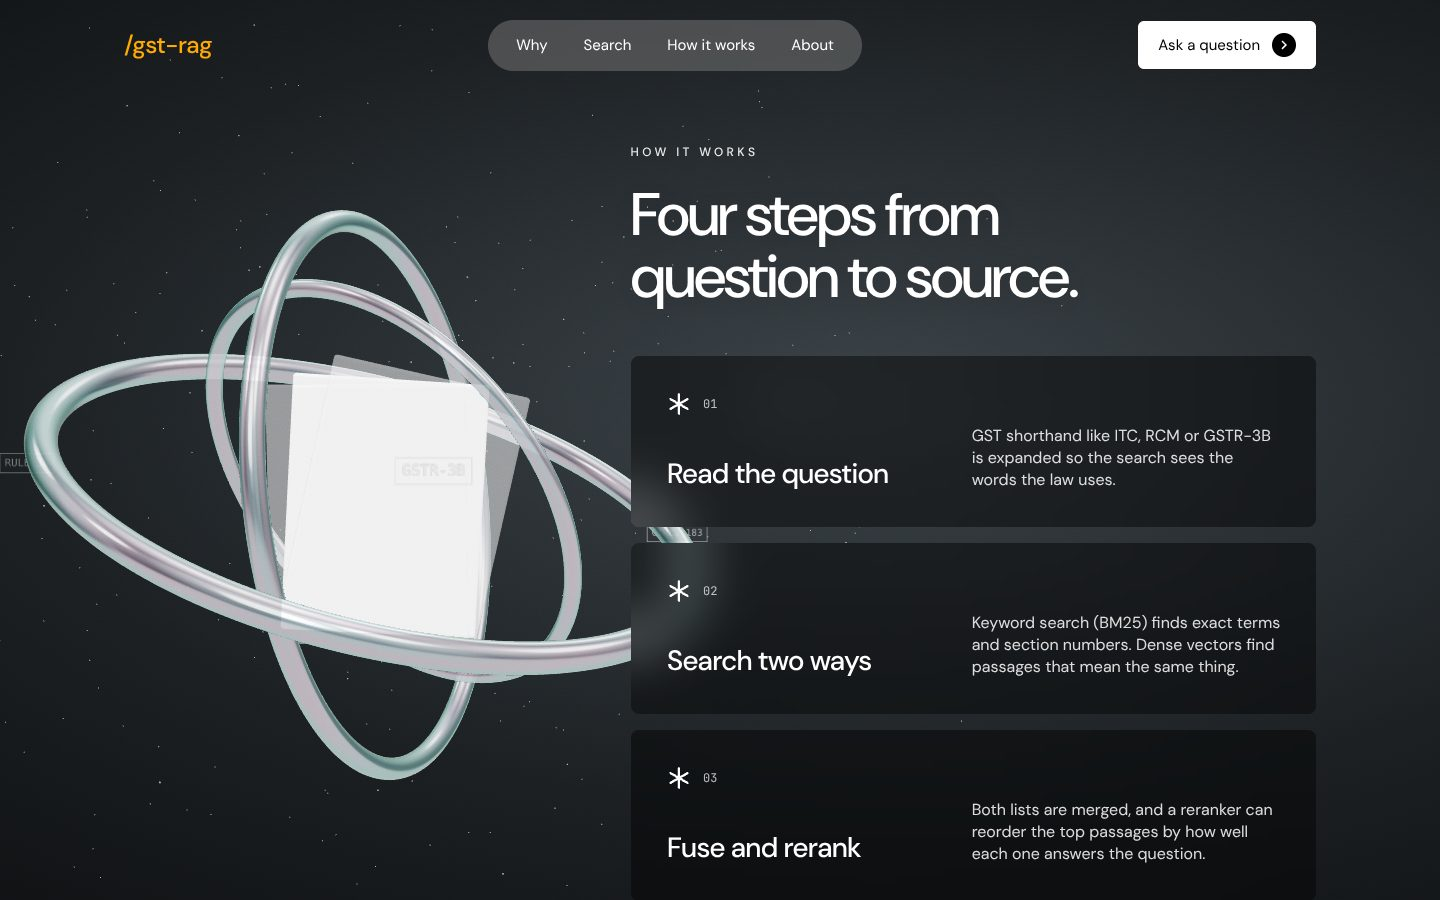
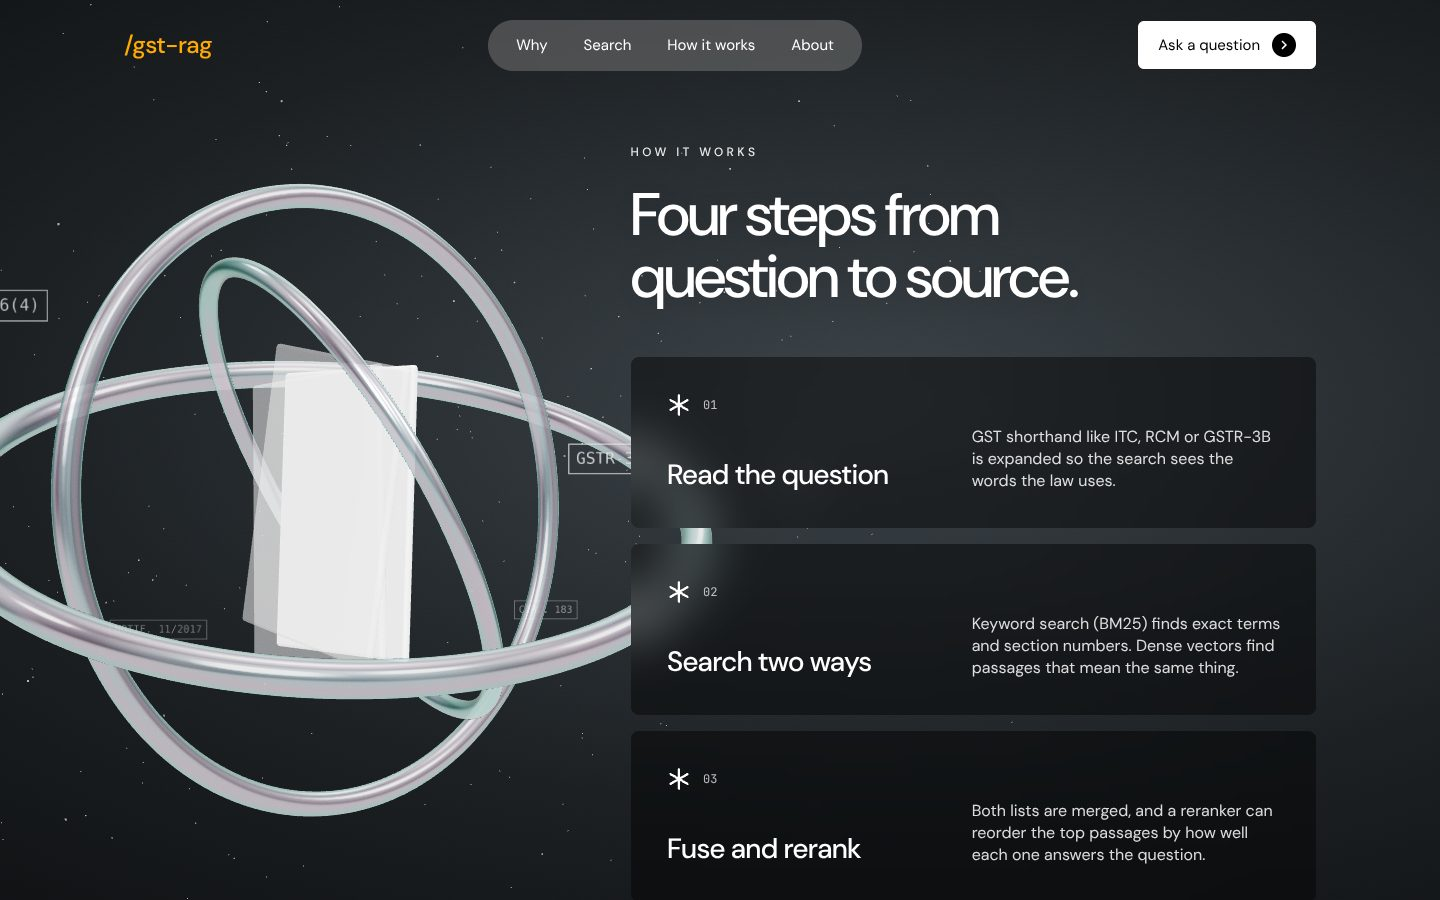
Frontend: scroll-scrubbed camera that flies into the 3D object
- Camera keyframes pinned to sections: far out with the object to the
  right in the hero, closer behind the new statement section, right
  inside the rings behind the glass cards, then pulled back out to the
  left for How it works. Scroll blends between them.
- New statement section over the scene whose words light up one by one
  as you scroll.
- Why-it's-different cards are now frosted glass over the zoomed scene.
- Guard --scroll against a zero viewport height.

Claude-Session: https://claude.ai/code/session_01BcUV2UwaDs38gkFiSr981i

diff --git a/frontend/src/three/scene.ts b/frontend/src/three/scene.ts
@@ -11,6 +11,13 @@ import * as THREE from "three";
 import { RoomEnvironment } from "three/examples/jsm/environments/RoomEnvironment.js";
 import { RoundedBoxGeometry } from "three/examples/jsm/geometries/RoundedBoxGeometry.js";
 
+export interface Pose {
+  x: number;
+  y: number;
+  z: number;
+  ry: number;
+}
+
 export interface SceneHandle {
   dispose: () => void;
 }
@@ -20,8 +27,8 @@ interface Options {
   reducedMotion: boolean;
   /** Elements whose visibility keeps the render loop running. */
   windows: () => HTMLElement[];
-  /** Where the object should sit: 0 = hero (right), 1 = pipeline (left). */
-  anchor: () => number;
+  /** Scroll-driven pose: object offset (x, y), camera distance (z) and turn (ry). */
+  pose: (mobile: boolean) => Pose;
 }
 
 const TAGS = ["§ 16(4)", "RULE 36", "NOTIF. 11/2017", "CIRC. 183", "SEC. 9", "GSTR-3B"];
@@ -72,7 +79,7 @@ function tagSprite(label: string): THREE.Sprite {
   return sprite;
 }
 
-export function createScene({ canvas, reducedMotion, windows, anchor }: Options): SceneHandle {
+export function createScene({ canvas, reducedMotion, windows, pose }: Options): SceneHandle {
   const renderer = new THREE.WebGLRenderer({ canvas, antialias: true, alpha: true, powerPreference: "high-performance" });
   renderer.setPixelRatio(Math.min(window.devicePixelRatio, 1.75));
   renderer.toneMapping = THREE.ACESFilmicToneMapping;
@@ -225,29 +232,25 @@ export function createScene({ canvas, reducedMotion, windows, anchor }: Options)
   const clock = new THREE.Clock();
   let raf = 0;
   let t = 0;
-  const cur = { x: 0, y: 0, ry: 0, s: 1 };
+  const cur = { ...pose(window.innerWidth < 768) };
 
   function frame() {
     raf = 0;
     const dt = Math.min(clock.getDelta(), 0.05);
     if (!reducedMotion) t += dt;
 
-    const a = anchor(); // 0 hero .. 1 pipeline
-    const span = mobile ? 0.7 : 2.35;
-    const target = {
-      x: THREE.MathUtils.lerp(span, -span, a),
-      y: mobile ? THREE.MathUtils.lerp(-1.6, -1.0, a) : THREE.MathUtils.lerp(-0.15, -0.3, a),
-      ry: a * Math.PI * 1.15,
-      s: mobile ? 0.78 : 1,
-    };
-    const k = reducedMotion ? 1 : 1 - Math.pow(0.0015, dt);
+    const target = pose(mobile);
+    // Ease toward the scroll pose so a flick of the wheel glides, not jumps.
+    const k = reducedMotion ? 1 : 1 - Math.pow(0.004, dt);
     cur.x += (target.x - cur.x) * k;
     cur.y += (target.y - cur.y) * k;
+    cur.z += (target.z - cur.z) * k;
     cur.ry += (target.ry - cur.ry) * k;
-    cur.s += (target.s - cur.s) * k;
     rig.position.set(cur.x, cur.y, 0);
     rig.rotation.y = cur.ry;
-    rig.scale.setScalar(cur.s);
+    camera.position.z = cur.z;
+    // Dust thins out as the camera flies in, so close-ups stay clean.
+    (dust.material as THREE.PointsMaterial).opacity = THREE.MathUtils.clamp((cur.z - 2.5) / 6, 0.25, 0.75);
 
     const lk = reducedMotion ? 0 : 1 - Math.pow(0.02, dt);
     lean.rotation.y += (pointer.x * 0.35 - lean.rotation.y) * lk;

diff --git a/frontend/src/components/Backdrop.tsx b/frontend/src/components/Backdrop.tsx
@@ -10,13 +10,38 @@ function webglAvailable() {
   }
 }
 
-/** 0 at the top of the page, 1 once the "How it works" section fills the view. */
-function anchor() {
-  const pipeline = document.getElementById("how");
-  if (!pipeline) return 0;
-  const end = pipeline.offsetTop - window.innerHeight * 0.15;
-  const x = Math.min(Math.max(window.scrollY / Math.max(end, 1), 0), 1);
-  return x * x * (3 - 2 * x);
+type Pose = { x: number; y: number; z: number; ry: number };
+
+/**
+ * Camera keyframes, pinned to sections: each pose applies when that section's
+ * top reaches the top of the viewport, and scroll blends between them. The
+ * camera starts far out with the object to the right, flies into it through
+ * the statement and the glass cards, then pulls back out for How it works.
+ */
+const KEYS: { id: string; desktop: Pose; mobile: Pose }[] = [
+  { id: "top", desktop: { x: 2.3, y: -0.15, z: 11, ry: 0 }, mobile: { x: 0.6, y: -1.5, z: 14, ry: 0 } },
+  { id: "statement", desktop: { x: 1.7, y: 0, z: 6.2, ry: 0.7 }, mobile: { x: 0, y: -0.4, z: 8.5, ry: 0.7 } },
+  { id: "why", desktop: { x: 0, y: 0.1, z: 2.9, ry: 1.5 }, mobile: { x: 0, y: 0, z: 3.4, ry: 1.5 } },
+  { id: "search", desktop: { x: 0, y: 0.1, z: 2.9, ry: 1.7 }, mobile: { x: 0, y: 0, z: 3.4, ry: 1.7 } },
+  { id: "how", desktop: { x: -2.4, y: -0.3, z: 10, ry: 3.0 }, mobile: { x: 0, y: -1.2, z: 13, ry: 3.0 } },
+];
+
+const smooth = (x: number) => x * x * (3 - 2 * x);
+
+function pose(mobile: boolean): Pose {
+  const pick = (k: (typeof KEYS)[number]) => (mobile ? k.mobile : k.desktop);
+  const tops = KEYS.map((k) => document.getElementById(k.id)?.offsetTop ?? 0);
+  const y = window.scrollY;
+  if (y <= tops[0]) return pick(KEYS[0]);
+  for (let i = 0; i < KEYS.length - 1; i++) {
+    if (y < tops[i + 1]) {
+      const t = smooth((y - tops[i]) / Math.max(tops[i + 1] - tops[i], 1));
+      const a = pick(KEYS[i]);
+      const b = pick(KEYS[i + 1]);
+      return { x: a.x + (b.x - a.x) * t, y: a.y + (b.y - a.y) * t, z: a.z + (b.z - a.z) * t, ry: a.ry + (b.ry - a.ry) * t };
+    }
+  }
+  return pick(KEYS[KEYS.length - 1]);
 }
 
 /**
@@ -43,7 +68,7 @@ export default function Backdrop({ motion }: { motion: boolean }) {
         handle = createScene({
           canvas: canvasRef.current,
           reducedMotion,
-          anchor,
+          pose,
           windows: () => Array.from(document.querySelectorAll<HTMLElement>("[data-scene-window]")),
         });
         canvasRef.current.classList.add("opacity-100");

diff --git a/frontend/src/components/Statement.tsx b/frontend/src/components/Statement.tsx
@@ -1,0 +1,64 @@
+import { useEffect, useRef } from "react";
+
+const TEXT =
+  "We don't write answers. We find the passage that already says it, check that it still holds, and show you exactly where it came from.";
+
+/**
+ * A big statement over the 3D scene. Words light up one by one as the
+ * section scrolls through the viewport, while the camera flies in behind.
+ */
+export default function Statement() {
+  const ref = useRef<HTMLParagraphElement>(null);
+  const words = TEXT.split(" ");
+
+  useEffect(() => {
+    const el = ref.current;
+    if (!el) return;
+    const spans = Array.from(el.querySelectorAll<HTMLSpanElement>("span"));
+    let frame = 0;
+    const update = () => {
+      frame = 0;
+      const r = el.getBoundingClientRect();
+      const vh = window.innerHeight;
+      // 0 when the paragraph's top enters at 85% of the viewport, 1 when its bottom reaches 45%.
+      const p = Math.min(Math.max((vh * 0.85 - r.top) / (r.height + vh * 0.4), 0), 1);
+      const lit = p * spans.length;
+      spans.forEach((s, i) => {
+        const o = Math.min(Math.max(lit - i, 0), 1);
+        s.style.opacity = String(0.14 + o * 0.86);
+        s.style.filter = o < 1 ? `blur(${((1 - o) * 4).toFixed(1)}px)` : "";
+      });
+    };
+    const onScroll = () => {
+      if (!frame) frame = requestAnimationFrame(update);
+    };
+    update();
+    window.addEventListener("scroll", onScroll, { passive: true });
+    window.addEventListener("resize", onScroll);
+    return () => {
+      window.removeEventListener("scroll", onScroll);
+      window.removeEventListener("resize", onScroll);
+      cancelAnimationFrame(frame);
+    };
+  }, []);
+
+  return (
+    <section id="statement" data-scene-window className="relative">
+      <div className="container-x flex min-h-[130vh] flex-col justify-center py-32">
+        <p className="eyebrow text-white/80">Our approach</p>
+        <p
+          ref={ref}
+          aria-label={TEXT}
+          className="mt-8 max-w-5xl text-[clamp(32px,5.4vw,76px)] font-medium leading-[1.06] tracking-tightest text-white
+                     [text-shadow:0_2px_40px_rgba(0,0,0,0.35)]"
+        >
+          {words.map((w, i) => (
+            <span key={i} aria-hidden className="transition-[opacity,filter] duration-200">
+              {w}{" "}
+            </span>
+          ))}
+        </p>
+      </div>
+    </section>
+  );
+}

diff --git a/frontend/src/components/Principles.tsx b/frontend/src/components/Principles.tsx
@@ -21,9 +21,9 @@ const ITEMS = [
 
 export default function Principles() {
   return (
-    <section id="why" className="relative scroll-mt-24 bg-paper"><div className="container-x scroll-mt-24 py-24 lg:py-32">
-      <p className="eyebrow reveal text-muted">Why it's different</p>
-      <h2 className="reveal mt-6 max-w-3xl text-[clamp(32px,4.6vw,60px)] font-medium leading-[1.04] tracking-tightest">
+    <section id="why" data-scene-window className="relative scroll-mt-24"><div className="container-x flex min-h-[110vh] flex-col justify-center py-24 lg:py-32">
+      <p className="eyebrow reveal text-white/80">Why it's different</p>
+      <h2 className="reveal mt-6 max-w-3xl text-[clamp(32px,4.6vw,60px)] font-medium leading-[1.04] tracking-tightest text-white [text-shadow:0_2px_30px_rgba(0,0,0,0.3)]">
         Built for answers you can defend.
       </h2>
 
@@ -34,13 +34,15 @@ export default function Principles() {
             data-tilt
             className={
               "reveal flex min-h-[340px] flex-col justify-between rounded-lg p-8 lg:p-10 " +
-              (featured ? "bg-black text-white dark:bg-white dark:text-black" : "bg-card")
+              (featured
+                ? "bg-white/90 text-black backdrop-blur-xl"
+                : "border border-white/15 bg-black/45 text-white backdrop-blur-2xl")
             }
           >
             <Icon className="h-9 w-9" />
             <div>
               <h3 className="text-[28px] font-medium tracking-tight">{title}</h3>
-              <p className={"mt-5 text-[17px] leading-snug " + (featured ? "opacity-85" : "text-muted")}>{body}</p>
+              <p className={"mt-5 text-[17px] leading-snug " + (featured ? "text-black/70" : "text-white/75")}>{body}</p>
             </div>
           </article>
         ))}

diff --git a/frontend/src/App.tsx b/frontend/src/App.tsx
@@ -2,6 +2,7 @@ import { useEffect, useState } from "react";
 import Nav from "./components/Nav";
 import Hero from "./components/Hero";
 import Principles from "./components/Principles";
+import Statement from "./components/Statement";
 import SearchSection from "./components/SearchSection";
 import Pipeline from "./components/Pipeline";
 import Stats from "./components/Stats";
@@ -66,6 +67,7 @@ export default function App() {
       <Nav />
       <main>
         <Hero />
+        <Statement />
         <Principles />
         <SearchSection
           variants={variants}

diff --git a/frontend/src/hooks/useReveal.ts b/frontend/src/hooks/useReveal.ts
@@ -31,7 +31,7 @@ export function useScrollVar() {
     let frame = 0;
     const update = () => {
       frame = 0;
-      const p = Math.min(window.scrollY / window.innerHeight, 1.5);
+      const p = Math.min(window.scrollY / Math.max(window.innerHeight, 1), 1.5);
       document.documentElement.style.setProperty("--scroll", p.toFixed(3));
     };
     const onScroll = () => {
